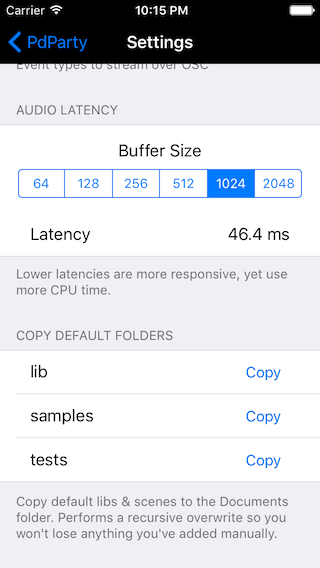
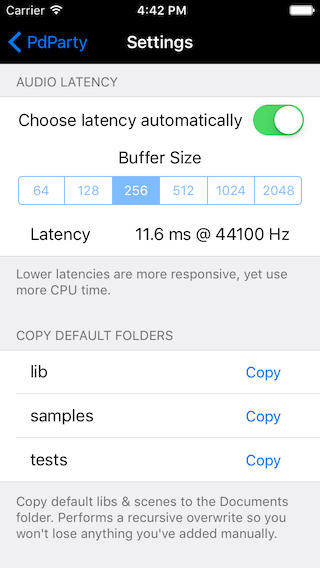
added auto latency settings control, desired ticks per buffer reset explicitly after samplerate change when not enabled; updated docs

diff --git a/src/modules/PureData.m b/src/modules/PureData.m
@@ -38,6 +38,7 @@
 - (id)init {
 	self = [super init];
 	if(self) {
+		_autoLatency = [[NSUserDefaults standardUserDefaults] floatForKey:@"autoLatency"];
 		self.micVolume = [[NSUserDefaults standardUserDefaults] floatForKey:@"micVolume"];
 		_volume = 1.0;
 		_playing = YES;
@@ -83,6 +84,14 @@
 
 - (float)calculateLatency {
 	return ((float)[self calculateBufferSize] / (float)audioController.sampleRate) * 2.0 * 1000;
+}
+
+- (void)setAutoLatency:(BOOL)autoLatency {
+	if(_autoLatency == autoLatency) {
+		return;
+	}
+	_autoLatency = autoLatency;
+	[[NSUserDefaults standardUserDefaults] setBool:autoLatency forKey:@"autoLatency"];
 }
 
 #pragma mark Current Play Values
@@ -517,10 +526,11 @@
 	}
 
 	audioController.active = NO;
+	int tpb = audioController.ticksPerBuffer;
 	PdAudioStatus status = [audioController configurePlaybackWithSampleRate:sampleRate
-															 numberChannels:2
-															   inputEnabled:YES
-															  mixingEnabled:YES];
+	                                                         numberChannels:2
+	                                                           inputEnabled:YES
+	                                                          mixingEnabled:YES];
 	if(status == PdAudioError) {
 		DDLogError(@"PureData: could not configure PdAudioController");
 	}
@@ -531,10 +541,17 @@
 		DDLogVerbose(@"PureData: sampleRate now %d", audioController.sampleRate);
 	}
 	
-	// check tpb
-	if(audioController.ticksPerBuffer == 0) {
-		DDLogVerbose(@"PureData: caught 0 ticksPerBuffer, setting to 1");
+	// (re)set tpb if we're not letting the latency be chosen automatically
+	// by the audioController
+	if(!self.autoLatency && audioController.ticksPerBuffer != tpb) {
+		[self setTicksPerBuffer:tpb];
+		DDLogVerbose(@"PureData: resetting ticksPerBuffer after sampleRate change");
+	}
+	
+	// catch zero ticks per buffer
+	if(audioController.ticksPerBuffer <= 0) {
 		[self setTicksPerBuffer:1];
+		DDLogVerbose(@"PureData: caught 0 ticksPerBuffer after sampleRate change, setting to 1");
 	}
 	
 	audioController.active = YES;

diff --git a/src/SettingsViewController.m b/src/SettingsViewController.m
@@ -36,6 +36,9 @@
 	self.oscKeyEnabledSwitch.on = app.osc.keySendingEnabled;
 	self.oscPrintEnabledSwitch.on = app.osc.printSendingEnabled;
 	
+	self.autoLatencySwitch.on = app.pureData.autoLatency;
+	self.ticksPerBufferSegmentedControl.enabled = !app.pureData.autoLatency;
+	self.ticksPerBufferSegmentedControl.userInteractionEnabled = !app.pureData.autoLatency;
 	ticksPerBufferValues = [NSArray arrayWithObjects:
 		[NSNumber numberWithInt:1], [NSNumber numberWithInt:2], [NSNumber numberWithInt:4],
 		[NSNumber numberWithInt:8], [NSNumber numberWithInt:16], [NSNumber numberWithInt:32], nil];
@@ -46,7 +49,7 @@
 			break;
 		}
 	}
-	self.latencyLabel.text = [NSString stringWithFormat:@"%.1f ms @ %d Hz", [app.pureData calculateLatency], app.pureData.sampleRate];
+	[self updateLatencyLabel];
 	
     [super viewDidLoad];
 }
@@ -94,11 +97,18 @@
 
 #pragma mark Audio Latency
 
+- (IBAction)autoLatencyChanged:(id)sender {
+	app.pureData.autoLatency = self.autoLatencySwitch.isOn;
+	self.ticksPerBufferSegmentedControl.enabled = !app.pureData.autoLatency;
+	self.ticksPerBufferSegmentedControl.userInteractionEnabled = !app.pureData.autoLatency;
+	//self.ticksPerBufferSegmentedControl.tintColor = [UIColor grayColor];
+}
+
 - (IBAction)ticksPerBufferChanged:(id)sender {
 	// get value from array
 	int index = (int)self.ticksPerBufferSegmentedControl.selectedSegmentIndex;
 	app.pureData.ticksPerBuffer = [[ticksPerBufferValues objectAtIndex:index] intValue];
-	self.latencyLabel.text = [NSString stringWithFormat:@"%.1f ms @ %d Hz", [app.pureData calculateLatency], app.pureData.sampleRate];
+	[self updateLatencyLabel];
 }
 
 #pragma mark Default Folders
@@ -141,6 +151,13 @@
 			});
 		});
 	}
+}
+
+#pragma mark Private
+
+- (void)updateLatencyLabel {
+	self.latencyLabel.text = [NSString stringWithFormat:@"%.1f ms @ %d Hz",
+		[app.pureData calculateLatency], app.pureData.sampleRate];
 }
 
 @end

diff --git a/src/modules/PureData.h b/src/modules/PureData.h
@@ -89,6 +89,11 @@
 /// new sample rate ignored if it is equal to the current samplerate
 @property (nonatomic) int sampleRate;
 
+/// set to YES to have the latency (ticks per buffer) chosen automatically,
+/// otherwise the ticks per buffer will always be set when changing sampleRates,
+/// YES by default
+@property (nonatomic) BOOL autoLatency;
+
 /// setting the ticks per buffer sets the buffer size / audio latency
 /// range is 1 - 32, 16 by default
 @property (nonatomic) int ticksPerBuffer;

diff --git a/src/SettingsViewController.h b/src/SettingsViewController.h
@@ -32,9 +32,11 @@
 
 #pragma mark Audio Latency
 
+@property (weak, nonatomic) IBOutlet UISwitch *autoLatencySwitch;
 @property (weak, nonatomic) IBOutlet UISegmentedControl *ticksPerBufferSegmentedControl;
 @property (weak, nonatomic) IBOutlet UILabel *latencyLabel;
 
+- (IBAction)autoLatencyChanged:(id)sender;
 - (IBAction)ticksPerBufferChanged:(id)sender;
 
 #pragma mark Default Folders

diff --git a/doc/guide/PdParty_User_Guide.md b/doc/guide/PdParty_User_Guide.md
@@ -207,9 +207,12 @@ _Note: Most sensor events require the services to be enabled within the patch/sc
 
 #### Audio Latency
 
-This is pretty straight-forward and awesome thanks to CoreAudio. Simply set your desired buffer size and you'll see the approximate latency. A lower latency will give you more responsive audio (nearer to "real time") at the cost of more CPU usage and lower battery life. Higher latencies are good for more simultaneous processing or where realtime response is not as critical (lots of delay, recording only, etc).
+This is pretty straight-forward and awesome thanks to CoreAudio. A lower audio latency will give you more responsive audio (nearer to "real time") at the cost of more CPU usage and lower battery life. Higher latencies are good for more simultaneous processing or where realtime response is not as critical (lots of delay, recording only, etc).
 
-Your mileage may vary depending on the device and the complexity of the patch or scene you're running. If you get audio clicks/dropouts, then you need to either increase the buffer size or decrease the processing complexity of your patch.
+By default, the "Choose automatic latency" switch is enabled which tells the app to choose the best latency for your device. If this setting is disabled, you can
+set your desired buffer size using the radio buttons and you'll see the approximate latency.
+
+Your mileage may vary depending on the device and the complexity of the patch or scene you're running. If you get audio clicks/dropouts, then you need to either increase the buffer size or decrease the processing complexity of your patch. 
 
 #### Copy Default Folders
 
